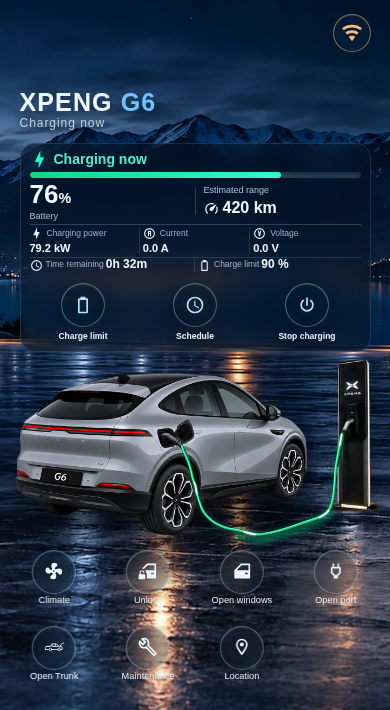
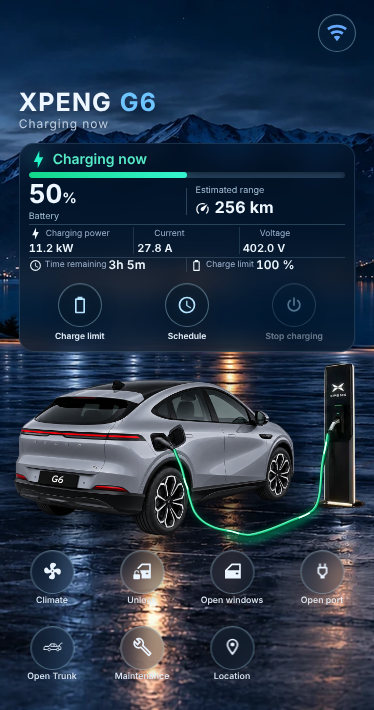
docs: real-data screenshots, editor image and rewritten README

diff --git a/README.md b/README.md
@@ -1,88 +1,139 @@
 <img src="https://raw.githubusercontent.com/matanmesika/xpeng-vehicle-card/main/assets/brand/xpeng-logo.svg" alt="XPENG logo" width="360">
 
-# XPENG Vehicle Card for Home Assistant
+# XPENG Vehicle Card
 
-**An unofficial, responsive vehicle dashboard for Home Assistant, powered by existing Xpengtk entities.** One Lovelace card automatically adapts to desktop, iPhone, and narrow Home Assistant Sections layouts. There is no separate mobile dashboard.
+<a href="https://my.home-assistant.io/redirect/hacs_repository/?owner=matanmesika&repository=xpeng-vehicle-card&category=plugin"><img alt="HACS Custom" src="https://img.shields.io/badge/HACS-Custom-41BDF5.svg"></a>
+<a href="https://github.com/matanmesika/xpeng-vehicle-card/releases/latest"><img alt="Release" src="https://img.shields.io/github/v/release/matanmesika/xpeng-vehicle-card"></a>
 
-The card preserves the night-lakeside setting, the selected vehicle artwork, and entity-driven controls. When the vehicle reports active charging, it automatically switches to a dedicated charging scene with a photographic XPENG charging station, a green cable overlay, and live charging information.
+A Home Assistant dashboard card for **XPENG** cars, built on the Xpengtk integration. One card shows the car's status, charging, climate, maintenance and location, and adapts to desktop, phone and Home Assistant Sections layouts.
 
-**Stable release: [v1.0.9](https://github.com/matanmesika/xpeng-vehicle-card/releases/tag/v1.0.9).** Previous stable: [v1.0.8](https://github.com/matanmesika/xpeng-vehicle-card/releases/tag/v1.0.8). Historical releases and betas remain available for rollback. The charging block uses one shared responsive component for desktop, iPhone and Home Assistant Sections.
+## Screenshots
 
-[Install with HACS](https://my.home-assistant.io/redirect/hacs_repository/?owner=matanmesika&repository=xpeng-vehicle-card&category=plugin) · [HACS product guide](docs/HACS_STORE_GUIDE.md) · [Screenshot gallery](docs/screenshots/README.md) · [Release acceptance](docs/G6_FINAL_STABILIZATION.md)
+**Home, charging, climate and maintenance** are captured from the card with data from a real 2026 XPENG G6 in Home Assistant: battery, range, odometer, tire pressures, service date and cabin temperature. The car wasn't charging at the time, so the charging power, current, voltage and time left in the charging images are illustrative. Location, charge controls, diagnostics and more options use sample values, and the map is a placeholder outside Home Assistant.
 
-## Actual dashboard screenshots
-
-Screenshots below were captured from **the running card in Chromium**, with simulated Home Assistant/Xpengtk sensor values. They are not recreated screenshots or AI-generated interface mockups. Vehicle and charging-station artwork may itself be illustrative; the browser tests do not prove live vehicle commands. The standalone map capture uses a placeholder map; actual map tiles and GPS centering require Home Assistant.
-
-| Screen | Desktop | Mobile |
+| Screen | Desktop | Phone |
 | --- | --- | --- |
-| Overview and seven shortcuts | ![G6 desktop overview](docs/screenshots/home-desktop.png) | ![G6 iPhone overview](docs/screenshots/home-mobile.png) |
-| Automatic charging — grouped Power (kW), Current (A), Voltage (V), time and limit | ![G6 desktop charging](docs/screenshots/charging-desktop.png) | ![G6 iPhone charging](docs/screenshots/charging-mobile.png) |
-| HVAC, cabin seats and steering-wheel controls | ![G6 desktop climate](docs/screenshots/climate-desktop.png) | ![G6 iPhone climate](docs/screenshots/climate-mobile.png) |
-| Four tires and available maintenance data | ![G6 desktop maintenance](docs/screenshots/maintenance-desktop.png) | ![G6 iPhone maintenance](docs/screenshots/maintenance-mobile.png) |
-| Location and supported horn/flash commands | ![G6 desktop map placeholder](docs/screenshots/map-desktop.png) | ![G6 iPhone map placeholder](docs/screenshots/map-mobile.png) |
-| More Options and supported Xpengtk controls | ![G6 desktop options](docs/screenshots/functions-desktop.png) | ![G6 iPhone options](docs/screenshots/functions-mobile.png) |
+| Home | ![Home, desktop](docs/screenshots/home-desktop.png) | ![Home, phone](docs/screenshots/home-mobile.png) |
+| Charging | ![Charging, desktop](docs/screenshots/charging-desktop.png) | ![Charging, phone](docs/screenshots/charging-mobile.png) |
+| Climate | ![Climate, desktop](docs/screenshots/climate-desktop.png) | ![Climate, phone](docs/screenshots/climate-mobile.png) |
+| Maintenance and tire pressure | ![Maintenance, desktop](docs/screenshots/maintenance-desktop.png) | ![Maintenance, phone](docs/screenshots/maintenance-mobile.png) |
+| Location, horn and flash | ![Location, desktop](docs/screenshots/map-desktop.png) | ![Location, phone](docs/screenshots/map-mobile.png) |
+| More options | ![More options, desktop](docs/screenshots/functions-desktop.png) | ![More options, phone](docs/screenshots/functions-mobile.png) |
 
-[Charge limit and schedules](docs/screenshots/charge-controls-mobile.png) · [Entity diagnostics](docs/screenshots/diagnostics-mobile.png)
+| Charge limit and schedules | Entity diagnostics |
+| :---: | :---: |
+| ![Charge controls](docs/screenshots/charge-controls-mobile.png) | ![Diagnostics](docs/screenshots/diagnostics-mobile.png) |
 
-## Install and configure
+## Features
 
-In **HACS → Custom repositories**, add `https://github.com/matanmesika/xpeng-vehicle-card` under **Dashboard**. Install a stable release or explicitly select a beta using **Redownload → Need a different version?**. Reload Home Assistant's frontend after updating; a hard refresh may be necessary to clear a cached JavaScript bundle.
+- **Home:** battery and range, connection state, the car's picture in your model, year and paint, and seven shortcuts (climate, lock, windows, charge port, trunk, maintenance, location).
+- **Charging:** switches on by itself while the car charges. Shows charging power, current and voltage, time left and charge limit, with charge limit, schedule and stop buttons when your integration supports them.
+- **Climate:** target temperature, fan, heating and cooling, front seat heating and ventilation, rear seat heating and the heated steering wheel, on a picture of the cabin.
+- **Maintenance:** live pressure of all four tires (bar, PSI or kPa), next service, odometer and vehicle details.
+- **Location:** the car on the Home Assistant map, with horn and flash.
+- **More options:** other vehicle settings, software update information and entity diagnostics.
+- **Visual editor:** model, year, trim, paint, interior colour (dashboard, steering wheel, door inserts, console and seats), tire unit, controls, and manual mapping of every sensor.
 
-Add a card via the visual editor, or use YAML:
+## Requirements
+
+The **Xpengtk** Home Assistant integration, installed and signed in to your XPENG account. The card reads its entities and calls its actions. It doesn't connect to XPENG itself.
+
+## Installation
+
+### HACS (recommended)
+
+<a href="https://my.home-assistant.io/redirect/hacs_repository/?owner=matanmesika&repository=xpeng-vehicle-card&category=plugin"><img alt="Open your Home Assistant instance and open a repository inside HACS." src="https://my.home-assistant.io/badges/hacs_repository.svg"></a>
+
+1. Click the button above, or in **HACS → ⋮ → Custom repositories** add `https://github.com/matanmesika/xpeng-vehicle-card` with type **Dashboard**.
+2. Find **XPENG Vehicle Card** and choose **Download**.
+3. Reload the browser (on the phone app: close and reopen it).
+
+### Manual
+
+Copy `dist/xpeng-vehicle-card.js` to `<config>/www/xpeng-vehicle-card/`, then add `/local/xpeng-vehicle-card/xpeng-vehicle-card.js` as a **JavaScript module** under **Settings → Dashboards → ⋮ → Resources**.
+
+## Setup
+
+### Automatic
+
+Add the card from the dashboard editor (**Add card → XPENG Vehicle Card**), or with YAML:
 
 ```yaml
 type: custom:xpeng-vehicle-card
+prefix: xpeng_g6          # the start of your Xpengtk entity IDs, e.g. sensor.xpeng_g6_battery
 model: G6
 year: "2026"
 color: graphite_gray
-interior: dark_gray
-prefix: xpeng_g6  # Example only; match your actual Xpengtk entity names
-show_controls: true
-enable_access_controls: false
-grid_options:
-  columns: full
-  rows: auto
+interior: light_gray
 ```
 
-The prefix, model/year/paint and actual available entities must match your installation. The interior color is selected in the **card editor**, not in the Climate screen. Access actions require both the integration's permissions and an explicit card setting.
+In automatic mode the card finds the Xpengtk entities that start with your `prefix`.
 
-**Dependency:** an independently installed, configured and authenticated Xpengtk Home Assistant integration providing the supported entities. This is a *frontend card*, not a vehicle integration, API client, account login or credential-renewal service.
+### Manual (visual editor or YAML)
 
-## What the card can display and control
+| Visual editor |
+| :---: |
+| <img src="docs/editor.png" alt="XPENG card editor" width="380"> |
 
-- **Overview:** battery and range, connection state, approved vehicle artwork and seven compact shortcuts.
-- **Charging:** automatically shown while the charging sensor reports an active state. The electrical row groups **Charging power (kW), Current (A), and Voltage (V)**, with **Time remaining** and **Charge limit** together below. Battery percentage and estimated range remain above. Current and Voltage display `0.0 A` and `0.0 V` if their mapped readings are missing or invalid; these are **display placeholders, not measured zeroes**. Charging limits, schedules and stop/release actions appear only when supported.
-- **Climate:** supported temperature, fan, heating/cooling, front-seat heat/ventilation, rear-seat heating and heated steering wheel using mapped Home Assistant entities. A control is not proof that an unsupported physical feature exists.
-- **Vehicle actions:** lock/unlock, windows, trunk and charge flap through actual supported entities. State-sensitive action labels and pending-command suppression help avoid duplicate commands.
-- **Maintenance:** four live tire pressure sensors with unit preferences plus odometer, service information and identity only when the integration supplies them.
-- **Location:** native Home Assistant tracker map and horn/flash when the correct entities and permissions are available.
-- **More Options:** supported vehicle settings, Software Updates information and diagnostics. No unsupported manual software-update command is invented.
+In the editor, set **Mapping mode** to *Manual · choose sensors* and pick any of the 41 sensors yourself. A field left blank keeps the automatic mapping. A value can also be an attribute, written as `entity_id|attribute_name`.
 
-All dashboard, editor, help and error labels are **English-only** regardless of the Home Assistant interface language. Unknown or unavailable entity states are normally shown as unavailable; the **Charging Current and Voltage** tiles specifically use `0.0` as a display-only fallback. The card does not infer actual electrical measurements or guarantee control execution.
+```yaml
+type: custom:xpeng-vehicle-card
+prefix: xpeng_g6
+model: G6
+year: "2026"
+trim: core_performance_awd
+color: graphite_gray
+interior: light_gray
+tire_pressure_unit: psi
+show_controls: true
+enable_access_controls: false
+sensor_mapping_mode: manual
+entities:
+  soc: sensor.xpeng_g6_battery
+  range: sensor.xpeng_g6_range
+  tire_fl: sensor.xpeng_g6_tyre_pressure_front_left
+```
 
-## Sensor mapping and support
+### Options
 
-The card reads **existing Home Assistant/Xpengtk entities** and never independently polls XPENG servers. Check **Developer Tools → States** and the card's Entity Diagnostics to verify your entity IDs and vehicle feedback. A successful Home Assistant service call means the command was accepted by Home Assistant; it does not establish that the vehicle executed it.
+| Option | Default | Description |
+| --- | --- | --- |
+| `prefix` | `my_xpeng` | The start of your Xpengtk entity IDs. |
+| `model`, `year`, `trim` | `G6`, `2026` | Choose the car's picture. Trim is shown as a label only. |
+| `color`, `interior` | `graphite_gray`, `dark_gray` | Exterior paint and interior colour of the pictures. |
+| `tire_pressure_unit` | `bar` | `bar`, `psi` or `kpa`. |
+| `show_controls` | `true` on G6 | Shows the seven shortcut buttons. |
+| `enable_access_controls` | `false` | Allows unlock and window actions. Needs Xpengtk access permission. |
+| `sensor_mapping_mode` | `auto` (`manual` when `entities` is set) | `auto` finds entities by `prefix` and ignores `entities`; `manual` uses `entities` first and finds the rest by `prefix`. |
+| `entities` | — | Manual sensor mapping (see below). |
 
-The card is presently optimized for the G6. **G6 functional mapping status: COMPLETE** for the implemented and simulated-tested card features, *subject to real vehicle approval*. The artwork inventory separately records **30/33 G6 views**, with three G6 views still missing; the **other 14 vehicle families** have unfinished image coverage or verification. The interface does not substitute another model's images to hide missing artwork.
+### Sensors the card uses
 
-[Artwork status](docs/ARTWORK_STATUS.md) · [Entity mapping](docs/XPENG_APP_FEATURE_MAP.md) · [Complete Xpengtk entity catalogue](docs/XPENGTK_ENTITY_CATALOG.md) · [Feature and safety notes](docs/HACS_STORE_GUIDE.md)
+All of them are optional. A sensor that's missing hides its row instead of showing a wrong value.
 
-## Quality assurance and release status
+| Group | Keys |
+| --- | --- |
+| Vehicle | `model`, `name`, `powertrain`, `connection` |
+| Battery | `soc`, `health`, `battery_voltage`, `battery_current`, `battery_12v` |
+| Range | `range`, `fuel`, `fuel_range`, `combined` |
+| Charging | `charging`, `plugged`, `target`, `power`, `energy`, `remaining`, `current`, `current_limit`, `voltage` |
+| Vehicle status | `odometer`, `speed`, `locked`, `door_fl`, `door_fr`, `door_rl`, `door_rr`, `trunk`, `hood`, `location`, `last_update` |
+| Climate | `climate`, `cabin`, `outside`, `fan_speed` |
+| Tires | `tire_fl`, `tire_fr`, `tire_rl`, `tire_rr` |
 
-The automated suite checks source/dist parity, frontend syntax, HACS metadata, vehicle-image inventory, action and permission safeguards, English-only content, responsive geometry at desktop and 320/390/420px, and **14 browser screenshots**. These use simulated vehicle states and are not evidence of real-car execution.
+## Status
 
-For `v1.0.6`, the owner approved the grouped electrical charging layout and requested a stable release. Chromium browser captures validate the frontend layout, but on-device Home Assistant, iPhone Safari, GPS, TPMS and supported vehicle commands still require real-world verification.
+**G6 functional mapping status: COMPLETE.** The artwork inventory has 30/33 G6 views. The other 14 vehicle families still have incomplete pictures, so the card is tuned for the G6. See [artwork status](docs/ARTWORK_STATUS.md), [entity mapping](docs/XPENG_APP_FEATURE_MAP.md) and the [Xpengtk entity catalogue](docs/XPENGTK_ENTITY_CATALOG.md).
 
-[Owner acceptance checklist](docs/G6_FINAL_STABILIZATION.md) · [Browser screenshot index](docs/screenshots/README.md)
+## Troubleshooting
 
-## Developer structure
-
-The executable card runtime is maintained in `src/core/`, visual CSS in `src/design/`, and the distributable bundle in `dist/` with a matching entrypoint in `src/`. `assets/` contains backgrounds, cabin photos and vehicle imagery; `tests/` and `scripts/` contain regressions and reproducible browser captures. Some artwork is illustrative or unverified; view provenance and licensing before reusing assets outside this project.
-
-This community project is **not affiliated with or endorsed by XPENG**.
+- **Rows are empty:** check that `prefix` matches your entity IDs (*Developer Tools → States*), or map the sensors manually in the editor.
+- **Unlock or windows are missing:** turn on `enable_access_controls`, and check that your Xpengtk account has access permission.
+- **An old version still shows after an update:** reload the browser, or close and reopen the phone app.
 
 ## License
 
 [MIT](LICENSE) © 2026 Matan Mesika
+
+This is an unofficial project, not affiliated with or endorsed by XPENG.

diff --git a/docs/screenshots/README.md b/docs/screenshots/README.md
@@ -1,6 +1,6 @@
 # XPENG G6 — Screenshot gallery
 
-The fourteen PNGs show the **actual card running in Chromium**, driven by simulated Xpengtk entities. They are neither AI mockups nor proof of working live car commands. The Location screenshot uses a map stub; real tiles and native tracker centering require live Home Assistant.
+The fourteen PNGs show the **actual card running in Chromium**. Home, charging, climate and maintenance (desktop and phone) use entity states from a real 2026 G6 in Home Assistant; the charging power, current, voltage and time left are illustrative because the car wasn't charging. The other screenshots use sample values, and the Location screenshot uses a map stub.
 
 | View | Desktop | iPhone-sized |
 | --- | --- | --- |
